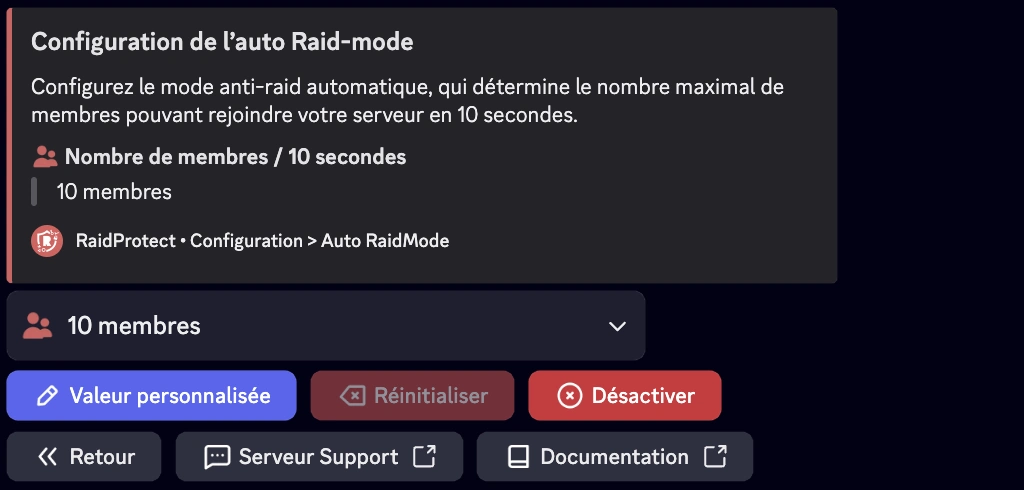
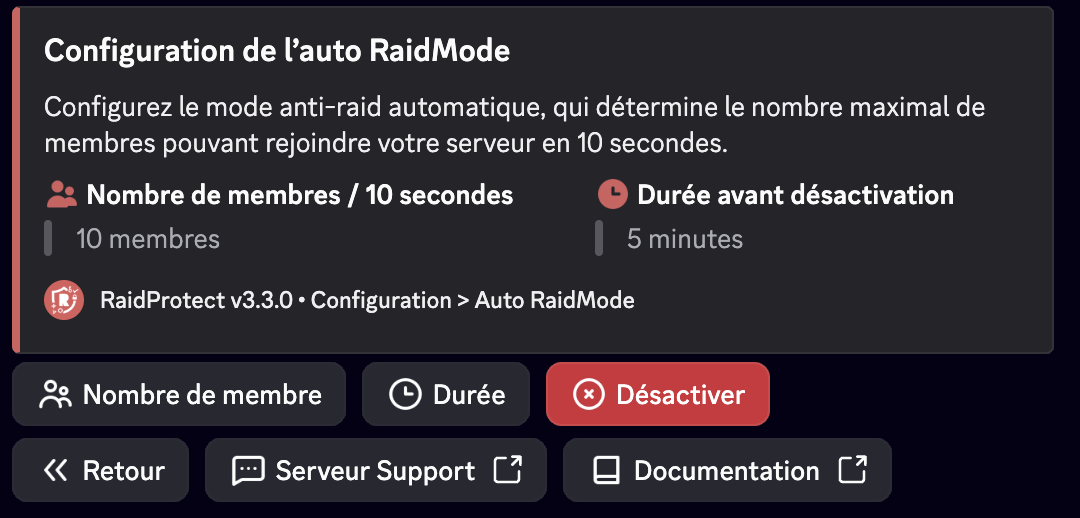
Add raidmode full config

diff --git a/docs/features/raid-mode.md b/docs/features/raid-mode.md
@@ -33,20 +33,27 @@ Si votre serveur accueille souvent beaucoup de nouveaux membres simultanément, 
 
 ![Capture d'écran mode raid automatique](../assets/rp-settings-raid-mode.webp)
 
+#### Seuil de membres {#threshold}
+
+1. Faites la [commande `/settings`](../setup.md#settings).
+2. Cliquez sur le bouton “**Auto RaidMode**”.
+3. Sélectionnez “**Nombre de membres**”.
+4. Choisissez le nombre de membres pouvant rejoindre sous 10 secondes.
+
+Vous pouvez laisser à la valeur par défaut (10) ou ajuster selon la valeur souhaitée en cliquant sur le bouton “**Valeur personnalisée**”.
+
 :::note
 Nous recommandons d’entrer une valeur comprise entre 10 et 20 membres en 10 secondes pour une bonne efficacité du système.
 :::
 
+#### Durée du raidmode {#duration}
+
 1. Faites la [commande `/settings`](../setup.md#settings).
 2. Cliquez sur le bouton “**Auto RaidMode**”.
-3. Sélectionnez le nombre de membres pouvant rejoindre sous 10 secondes.
+3. Sélectionnez “**Durée**”.
+4. Choisissez la durée du raidmode (24h maximum).
 
-Vous pouvez laisser à la valeur par défaut (10) ou ajuster selon la valeur souhaitée en cliquant sur le bouton “**Valeur personnalisée**”.
-
-:::warning
-Si le mode raid s’active automatiquement, pensez à le désactiver une fois la menace passée. Rappelez-vous, il ne se désactive pas tout seul. 😖
-:::
-
+Vous pouvez laisser à la valeur par défaut (5 minutes) ou ajuster selon la valeur souhaitée en cliquant sur le bouton “**Valeur personnalisée**”.
 
 ## Âge Minimum {#minage}
 
